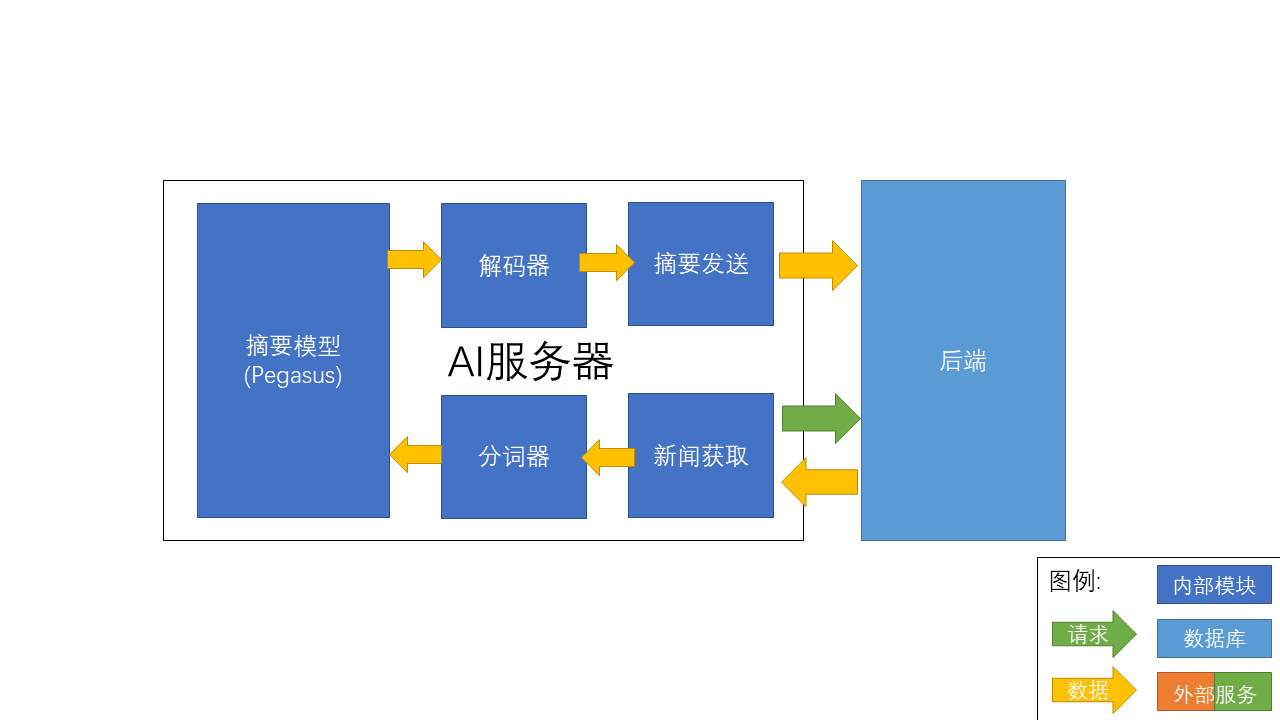
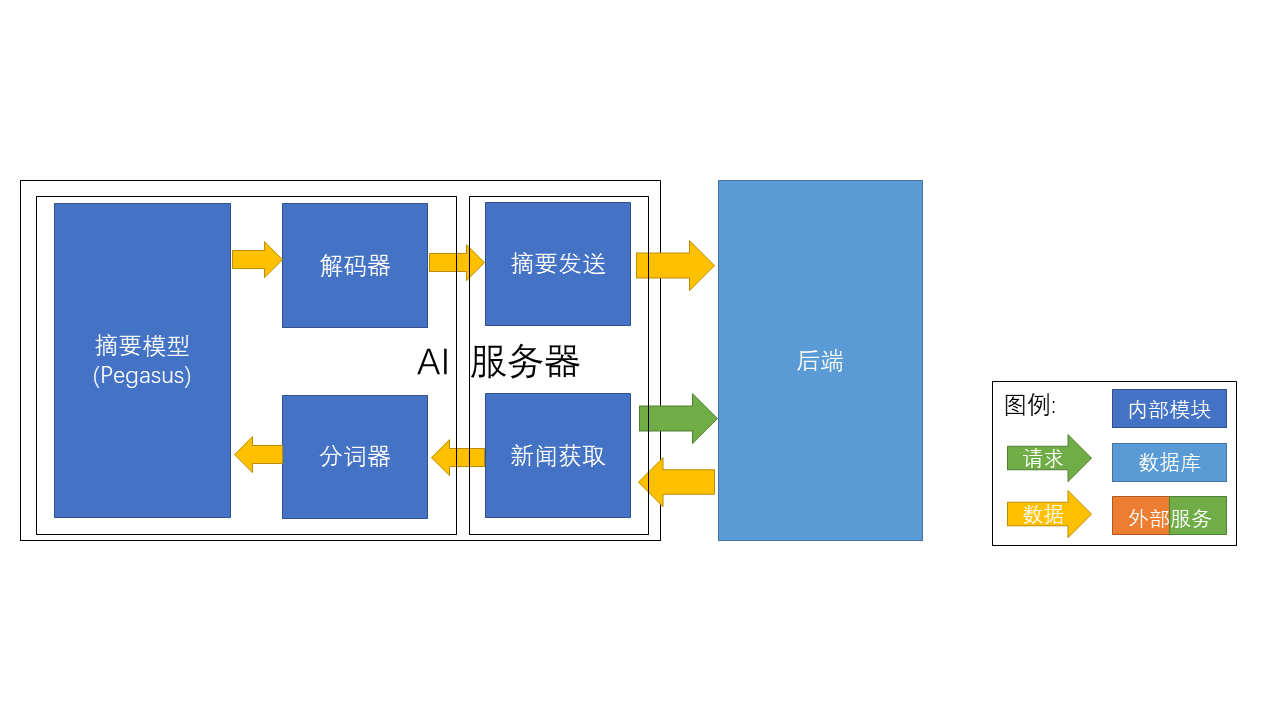
docs: update ai

Changed region(s): [[0.0312, 0.2444, 0.6875, 0.7639], [0.7188, 0.2444, 1.0, 1.0]]

diff --git a/docs/modules/ai.md b/docs/modules/ai.md
@@ -2,15 +2,85 @@
 
 ## 架构设计
 
-![后端整体设计](../images/AI.png)
+![后端-AI设计](../images/后端-AI.png)
+
+![AI整体设计](../images/AI.png)
+
+## 设计原则
+
+1. 独立计算：AI摘要是一项计算密集型任务，不宜直接在后端进行，因此需将AI摘要模块独立放置于外部服务器运行。
+2. 弹性计算：AI摘要的服务需求是弹性的，仅在高峰期需要大量计算资源。同时AI计算的成本是高昂的。因此使用模块化设计，后端可以与多个AI模块相连。通过增减与后端相连的AI模块，可以弹性改变AI算力，节约运算成本。
+3. 高可用性：AI摘要的实现技术多样、迭代升级快。使用模块化设计可使AI摘要服务的变更不影响后端服务可用性。
 
 ## 功能设计
 
-### 摘要模型
-1. 输入新闻内容`token_id`，输出新闻摘要`token_id`
+### AI摘要
 
-### 分词器
-1. 输入新闻内容字符串，输出新闻内容`token_id`
+#### 摘要模型
+输入新闻内容`token_ids`，输出新闻摘要`token_ids`
 
-### 解码器
-1. 输入新闻摘要`token_id`，输出新闻摘要字符串
+#### 分词器
+输入新闻内容字符串，输出新闻内容`token_ids`
+
+#### 解码器
+输入新闻摘要`token_ids`，输出新闻摘要字符串
+
+### 服务器
+
+#### 摘要发送
+将新闻摘要发送至后端
+
+#### 新闻获取
+从后端获取待摘要的新闻
+
+## 实现
+
+### 项目结构
+```
+│  .pycodestyle  # pycodestyle配置文件
+│  .pylintrc  # pylint配置文件
+│  pytest.ini  # pytest配置文件
+│  tests.py  # 单元测试
+│
+├─config
+│      config.json  # AI服务器配置
+│
+└─summarize
+        Pegasus.py  # 摘要模型
+        server.py  # 服务器
+```
+
+### AI摘要
+
+#### 加载模型
+实现函数： `summarize.Pegasus.load_model(model_name, tokenizer_name)`
+
+根据`model_name`，`tokenizer_name`加载`摘要模型`和`分词器（包括解码器）`。
+
+#### 生成摘要
+实现函数： `summarize.Pegasus.generate_summary(text)`
+
+生成`text`的文本摘要。
+
+### 服务器
+实现类： `summarize.server.AIServer(adapter, server, scan_interval, model, tokenizer)`
+
+| 参数              | 含义            |
+| ----------------- | --------------- |
+| `adapter`         | `通信协议`      |
+| `server`          | `后端服务器`    |
+| `scan_interval`   | `新闻获取间隔`  |
+| `model`           | `模型名`        |
+| `tokenizer`       | `分词器名`      |
+
+#### 初始化
+根据`model`和`tokenizer`执行`加载模型`
+
+#### 运行： `self.main()`
+根据`scan_interval`定期从后端`获取待摘要新闻`，`生成摘要`，并向后端`发送摘要`。
+
+#### 获取待摘要新闻： `self.get_news()`
+从后端获取多条待摘要新闻。
+
+#### 发送摘要：`self.post_summary(summaries_list)`
+将多条新闻摘要发送至后端。
